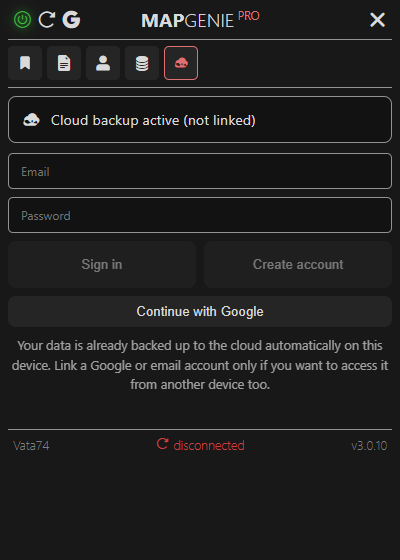
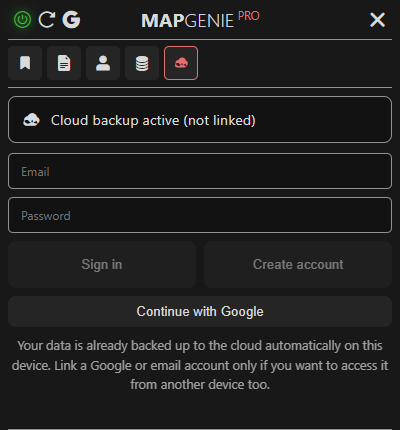
docs: crop disconnected footer from screenshots, drop the data one
The screenshots were taken by opening popup.html as its own tab, which
steals "active tab" focus from the map tab and makes the footer's
connected/disconnected ping always read disconnected — misleading,
since it has nothing to do with the actual feature. Cropped it out of
both Cloud tab screenshots instead of showing it.

Dropped the Data tab screenshot (it doesn't show anything about cloud
sync, just the existing buttons) and instead called out directly in
the Import/Export bullet that it pushes to Firebase now, not just
local storage.

diff --git a/README.md b/README.md
@@ -6,9 +6,9 @@ This is a fork of [NR2BJ/free-map-genie](https://github.com/NR2BJ/free-map-genie
 
 ## Screenshots
 
-| Cloud backup, no login needed | Linked to an account | Import / Export |
-| --- | --- | --- |
-| ![Cloud tab, backup active but not linked to any account](docs/screenshots/popup-cloud-anonymous.png) | ![Cloud tab, linked to an email account](docs/screenshots/popup-cloud-linked.png) | ![Data tab with import/export/clear actions](docs/screenshots/popup-data.png) |
+| Cloud backup, no login needed | Linked to an account |
+| --- | --- |
+| ![Cloud tab, backup active but not linked to any account](docs/screenshots/popup-cloud-anonymous.png) | ![Cloud tab, linked to an email account](docs/screenshots/popup-cloud-linked.png) |
 
 ## Install
 
@@ -29,7 +29,7 @@ Everything NR2BJ's fork already does (MapGenie v3 compatibility, Pro unlock, Chr
 - **Zero-friction by default.** The extension signs in anonymously the moment it loads — there's no login screen to get through before backup starts working on this device.
 - **Optional account linking.** Sign in with Google or an email/password account to sync the same data across multiple computers, or on Android through a browser that supports extensions (see [Mobile](#mobile-android)).
 - **Per-profile sync.** If you use more than one local profile (a MapGenie account plus local Guest profiles), each one is synced separately — switching profiles never overwrites another profile's cloud data.
-- **Works with the existing Import/Export.** Importing a save file, or importing from your MapGenie account, pushes the result to the cloud the same way marking a location does.
+- **Works with the existing Import/Export.** Importing a save file from the Data tab, or importing straight from your MapGenie account, now also pushes the result to Firebase — not just local storage — the same way marking a location does.
 
 Cloud sync is entirely optional: without a Firebase project configured, the extension behaves exactly like NR2BJ's fork, with local-only storage.
 
